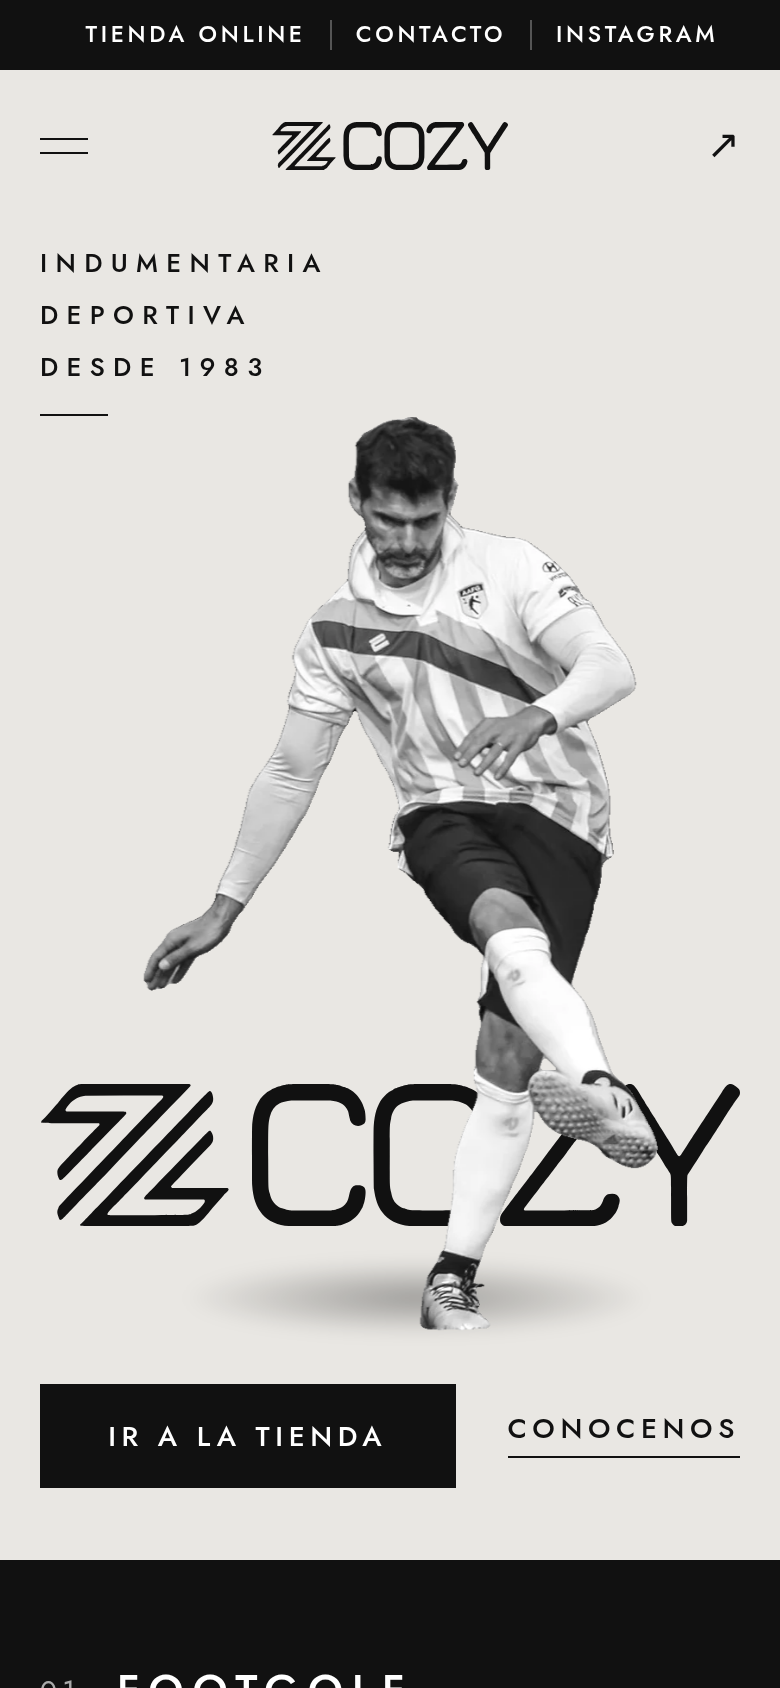
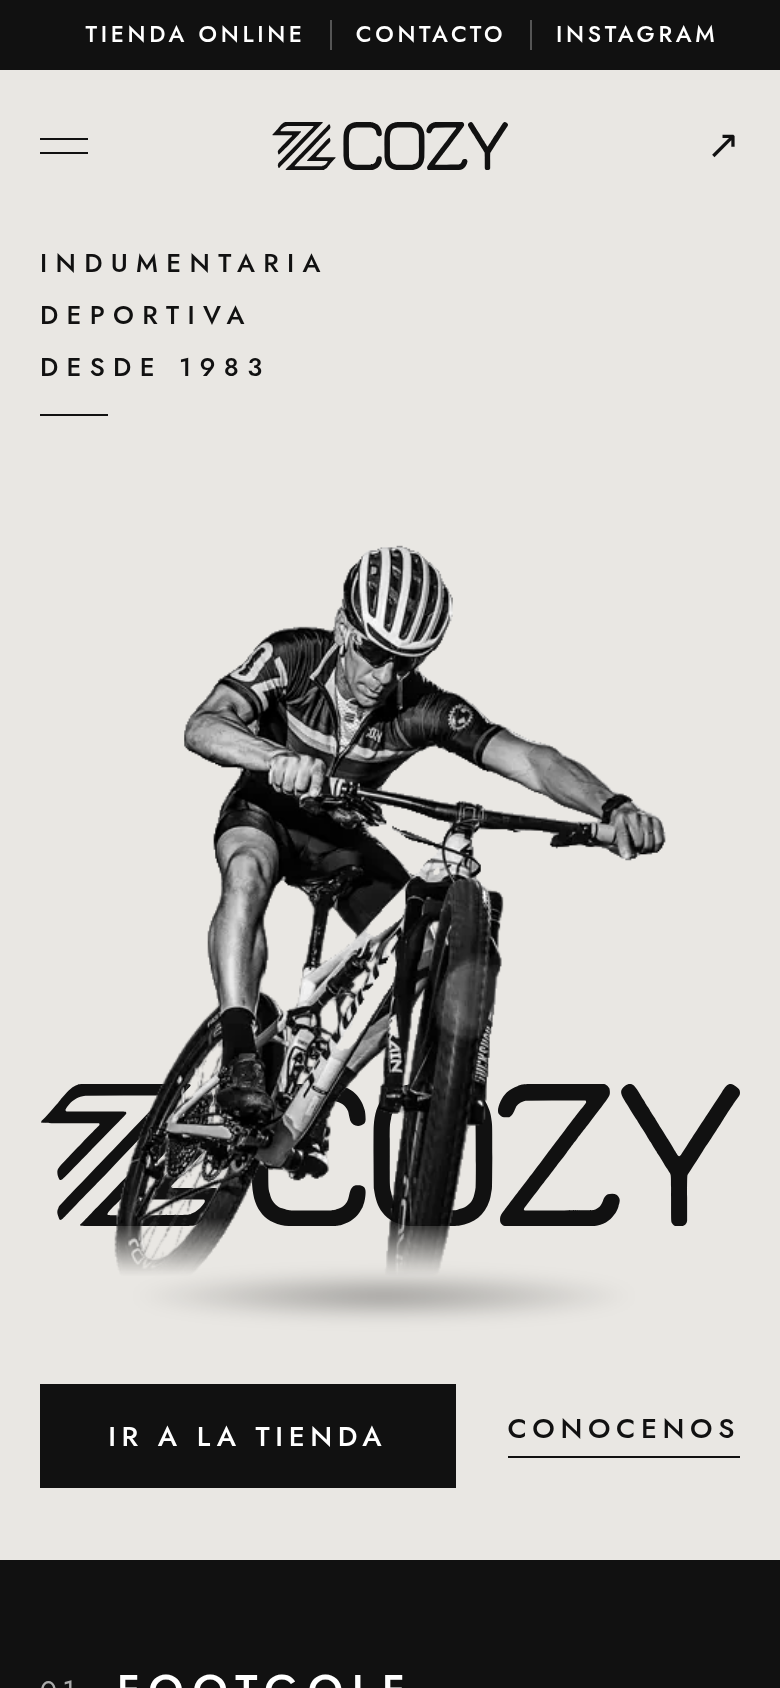
Portada con el ciclista; Hecho por argentinos con foto de producción; foto de Fabián Ayala

Changed region(s): [[0.1231, 0.2464, 0.8615, 0.8009]]

diff --git a/index.html b/index.html
@@ -7,7 +7,7 @@
 <meta name="description" content="Cozy Sport: indumentaria deportiva personalizada hecha en Argentina desde 1983. Hecho por argentinos para el mundo.">
 <meta property="og:title" content="Cozy Sport · Portfolio">
 <meta property="og:description" content="Indumentaria deportiva personalizada, hecha por argentinos para el mundo. Desde 1983.">
-<meta property="og:image" content="assets/Untitled-2.webp">
+<meta property="og:image" content="assets/Slider_-PRODUCCION.webp">
 <meta name="theme-color" content="#E9E7E3">
 <link rel="icon" href="favicon.ico" sizes="16x16">
 <link rel="icon" href="assets/icon-32.png" type="image/png" sizes="32x32">
@@ -17,8 +17,8 @@
 <link rel="preconnect" href="https://fonts.googleapis.com">
 <link rel="preconnect" href="https://fonts.gstatic.com" crossorigin>
 <link href="https://fonts.googleapis.com/css2?family=Jost:wght@300;400;500;600&display=swap" rel="stylesheet">
-<link rel="preload" as="image" href="assets/cozy-atleta-cutout.webp">
-<link rel="stylesheet" href="styles.css?v=202610250430">
+<link rel="preload" as="image" href="assets/cozy-ciclista-cutout.webp">
+<link rel="stylesheet" href="styles.css?v=202610250445">
 <script>document.documentElement.classList.add('js')</script>
 </head>
 <body id="top">
@@ -56,7 +56,7 @@
     <img class="hero__word" src="assets/cozy-wordmark-black.svg" alt="" width="3270" height="660">
     <div class="hero__athlete">
       <span class="hero__shadow" aria-hidden="true"></span>
-      <img src="assets/cozy-atleta-cutout.webp" alt="Jugador de footgolf con camiseta Cozy Sport celeste y blanca pateando" width="607" height="1067" fetchpriority="high">
+      <img src="assets/cozy-ciclista-cutout.webp" alt="Ciclista de mountain bike en el aire con indumentaria Cozy Sport" width="385" height="499" fetchpriority="high">
     </div>
   </div>
   <div class="hero__foot">
@@ -92,7 +92,7 @@
     <p>Tenemos nombre en inglés pero no somos importados: somos industria nacional. Somos una empresa familiar, por lo que cada prenda lleva nuestro cariño.</p>
     <a class="btn" href="#historia">Conocé nuestra historia</a>
   </div>
-  <div class="split__img"><img src="assets/Untitled-2.webp" alt="Ciclista de mountain bike en el aire con indumentaria Cozy Sport" loading="lazy" width="1064" height="500"></div>
+  <div class="split__img"><img src="assets/Slider_-PRODUCCION.webp" alt="Ciclistas con indumentaria Cozy Sport" loading="lazy" width="1050" height="500"></div>
 </section>
 
 <!-- CIFRAS -->
@@ -141,7 +141,7 @@
       <li class="ath is-extra" data-k="tri"><div class="ath__img"><img src="assets/amuch_500.webp" alt="Yamil Amuch, triatleta" loading="lazy" width="500" height="500"></div><p class="ath__s">Triatleta</p><h3>Yamil Amuch</h3><p class="ath__t">Triatleta Elite Argentino</p></li>
       <li class="ath is-extra" data-k="tri"><div class="ath__img"><img src="assets/pilara_500.webp" alt="Belén Pilara, triatleta" loading="lazy" width="500" height="500"></div><p class="ath__s">Triatleta</p><h3>Belén Pilara</h3><p class="ath__t">Triatleta pilarense</p></li>
       <li class="ath is-extra" data-k="tri"><div class="ath__img"><img src="assets/emmaiodice_500.webp" alt="Emma Iodice, triatleta" loading="lazy" width="500" height="500"></div><p class="ath__s">Triatleta</p><h3>Emma Iodice</h3><p class="ath__t">Campeón Argentino de media distancia</p></li>
-      <li class="ath is-extra" data-k="fg"><div class="ath__img ath__img--type" aria-hidden="true"><span>FA</span></div><p class="ath__s">Footgolfista</p><h3>Fabián Ayala</h3><p class="ath__t">Campeón Argentino 2017</p></li>
+      <li class="ath is-extra" data-k="fg"><div class="ath__img"><img src="assets/ayala_500.webp" alt="Fabián Ayala, footgolfista" loading="lazy" width="500" height="500"></div><p class="ath__s">Footgolfista</p><h3>Fabián Ayala</h3><p class="ath__t">Campeón Argentino 2017</p></li>
   </ul>
   <div class="more"><button type="button" class="ulink ulink--btn" id="more" aria-expanded="false" aria-controls="grid">Ver todos (15)</button></div>
 </section>
@@ -231,6 +231,6 @@
   </nav>
   <p class="foot__c">© <span id="y">2026</span> Cozy Sport SA</p>
 </footer>
-<script src="main.js?v=202610250430" defer></script>
+<script src="main.js?v=202610250445" defer></script>
 </body>
 </html>

diff --git a/styles.css b/styles.css
@@ -49,13 +49,13 @@ ul,ol{list-style:none}
 .hero__label{font:500 13px/2 var(--font);letter-spacing:.32em;text-transform:uppercase;position:relative;z-index:3}
 .hero__label::after{content:"";display:block;width:34px;height:1px;background:var(--ink);margin-top:10px}
 .hero__label--r{text-align:left}
-.hero__stage{position:relative;display:flex;align-items:center;justify-content:center;min-height:0}
-.hero__word{width:100%;height:auto;max-height:28vh;object-fit:contain;opacity:0;animation:fadeUp 1.2s var(--ease) .1s forwards}
-.hero__athlete{position:absolute;left:50%;bottom:-36px;height:calc(100% + 60px);max-height:640px;transform:translateX(-46%);z-index:2;display:flex;align-items:flex-end;opacity:0;animation:fadeUp 1.2s var(--ease) .35s forwards}
+.hero__stage{position:relative;display:flex;align-items:flex-end;justify-content:center;min-height:0}
+.hero__word{width:100%;height:auto;max-height:28vh;object-fit:contain;margin-bottom:24px;opacity:0;animation:fadeUp 1.2s var(--ease) .1s forwards}
+.hero__athlete{position:absolute;left:50%;bottom:0;height:calc(100% + 10px);max-height:600px;transform:translateX(-50%);z-index:2;display:flex;align-items:flex-end;opacity:0;animation:fadeUp 1.2s var(--ease) .35s forwards}
 .hero__athlete img{height:100%;width:auto;max-width:none;position:relative;z-index:1}
-.hero__shadow{position:absolute;left:8%;right:2%;bottom:-2px;height:38px;background:radial-gradient(ellipse at center,rgba(0,0,0,.32),rgba(0,0,0,0) 70%);filter:blur(4px)}
+.hero__shadow{position:absolute;left:4%;right:6%;bottom:-34px;height:34px;background:radial-gradient(ellipse at center,rgba(0,0,0,.32),rgba(0,0,0,0) 70%);filter:blur(4px)}
 @keyframes fadeUp{from{opacity:0;transform:translate(var(--tx,0),24px)}to{opacity:1;transform:translate(var(--tx,0),0)}}
-.hero__athlete{--tx:-46%}
+.hero__athlete{--tx:-50%}
 .hero__foot{display:flex;justify-content:space-between;align-items:flex-end;position:relative;z-index:3}
 .hero__cta{display:flex;align-items:center;gap:34px}
 
@@ -75,7 +75,7 @@ ul,ol{list-style:none}
 .split__text p:not(.label){max-width:40ch;color:var(--ink-2)}
 .split__text .btn{margin-top:10px}
 .split__img{overflow:hidden}
-.split__img img{width:100%;height:100%;object-fit:cover;object-position:56% 35%;filter:grayscale(1) contrast(1.05)}
+.split__img img{width:100%;height:100%;object-fit:cover;object-position:34% 60%;filter:grayscale(1) contrast(1.05)}
 
 /* Facts */
 .facts{display:grid;grid-template-columns:repeat(4,1fr);gap:24px;padding:64px var(--pad);background:var(--bg-2)}
@@ -190,7 +190,8 @@ ul,ol{list-style:none}
   .hero__stage{align-items:flex-end}
   .hero__word{max-height:none;width:100%;margin-bottom:17%;position:relative;z-index:1}
   .hero__athlete{z-index:2}
-  .hero__athlete{height:100%;bottom:6px;--tx:-48%}
+  .hero__athlete{height:80%;bottom:34px;--tx:-50%}
+  .hero__shadow{bottom:-22px;height:24px}
   .hero__foot{flex-direction:column-reverse;align-items:flex-start;gap:28px;margin-top:20px}
   .hero__label--r{display:none}
   .hero__cta{width:100%;gap:26px}

diff --git a/README.md b/README.md
@@ -5,4 +5,4 @@ Sexta versión del portfolio de [Cozy Sport](https://cozysport.com/portfolio/): 
 - Sitio: https://juancjose.github.io/cozy-portfolio-mono/
 - Tienda: https://cozy-sport.vercel.app
 
-Sitio estático (HTML + CSS + JS, sin build). Cada foto aparece una sola vez en la página. El recorte del atleta de portada (`assets/cozy-atleta-cutout.webp`) se generó a partir de `RATON_SLIDER.webp` con rembg (`isnet-general-use`), pasado a escala de grises con fondo transparente.
+Sitio estático (HTML + CSS + JS, sin build). Cada foto aparece una sola vez en la página. El recorte del ciclista de portada (`assets/cozy-ciclista-cutout.webp`) se generó a partir de `Untitled-2.webp` con rembg (`isnet-general-use`) más limpieza del cielo entre los rayos, en escala de grises con fondo transparente.
